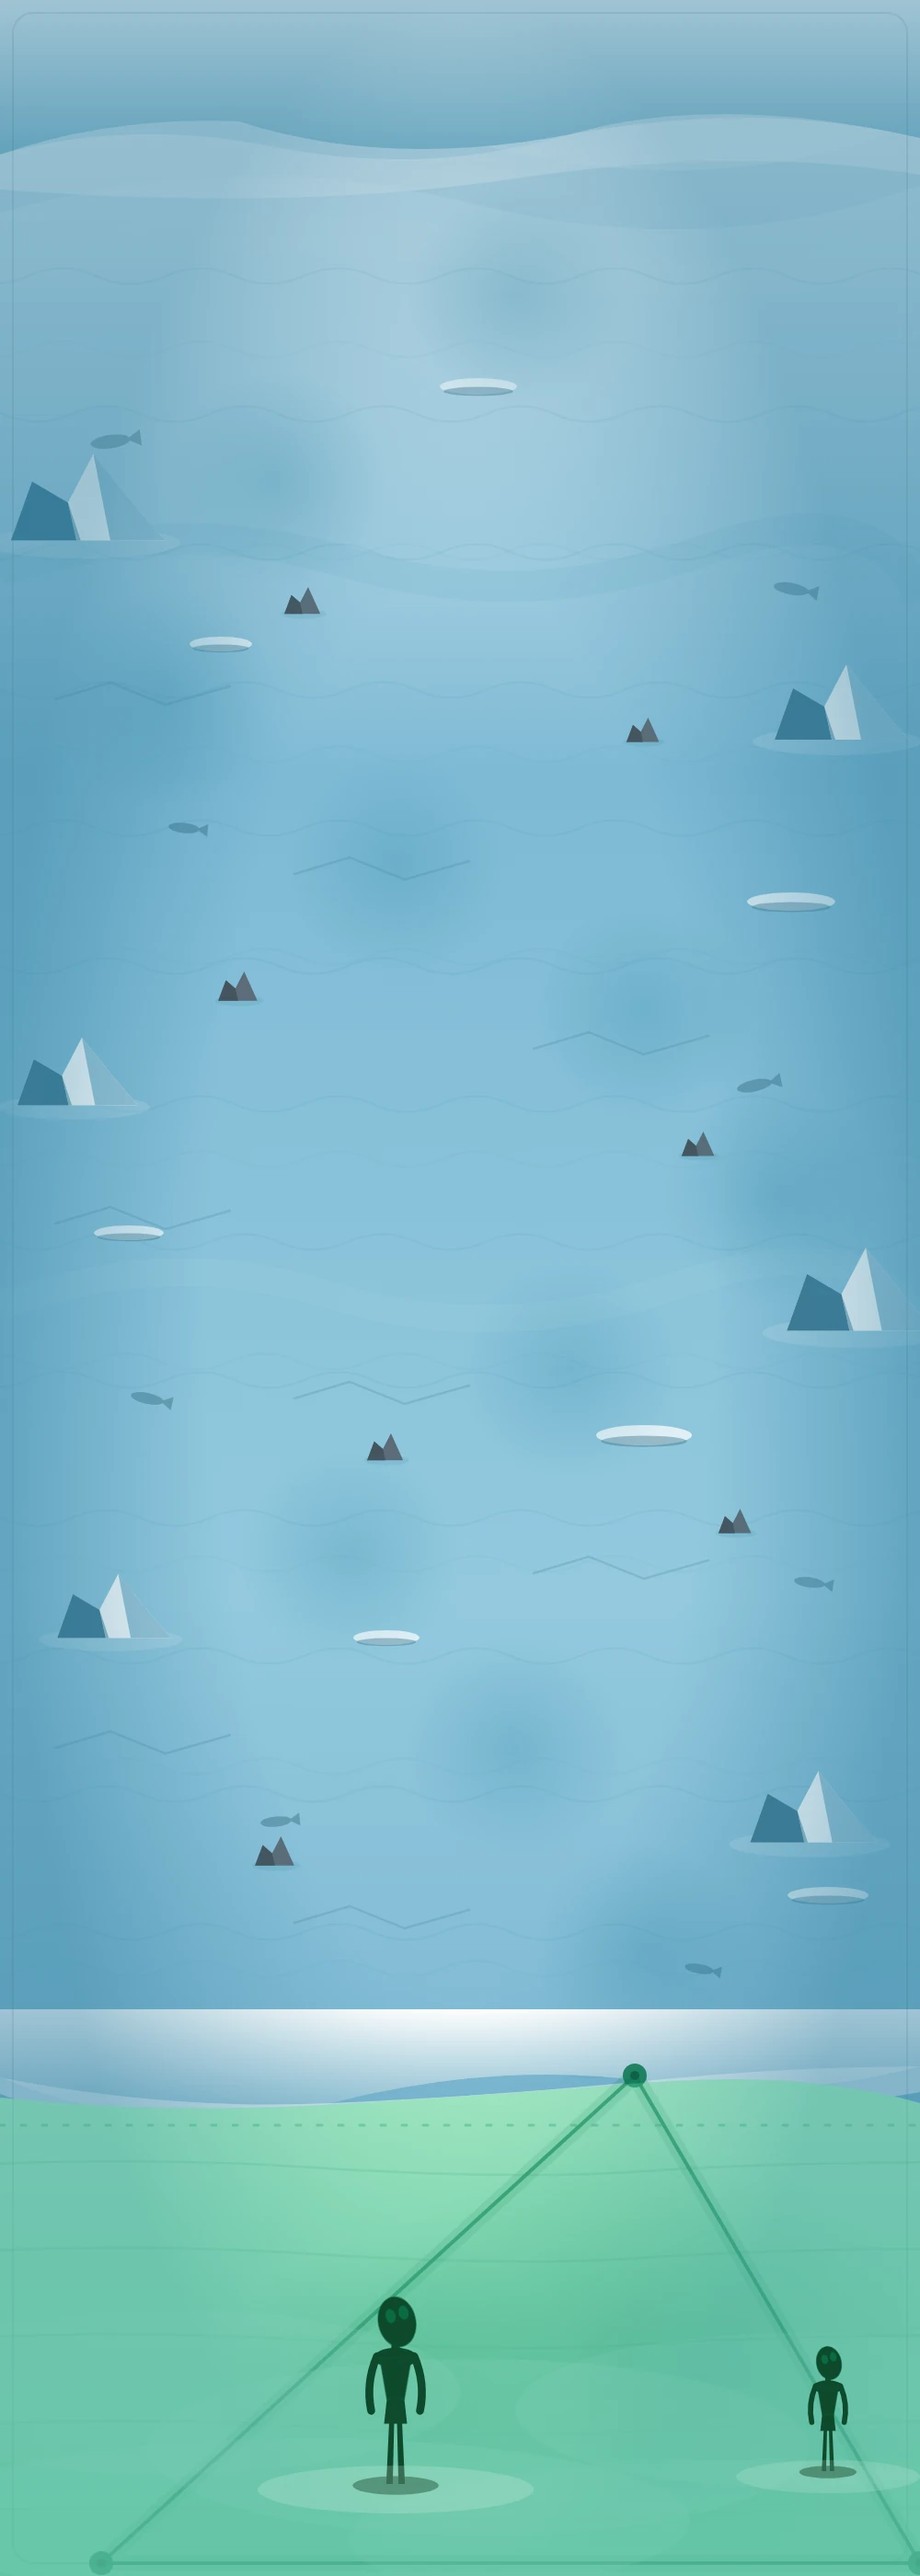
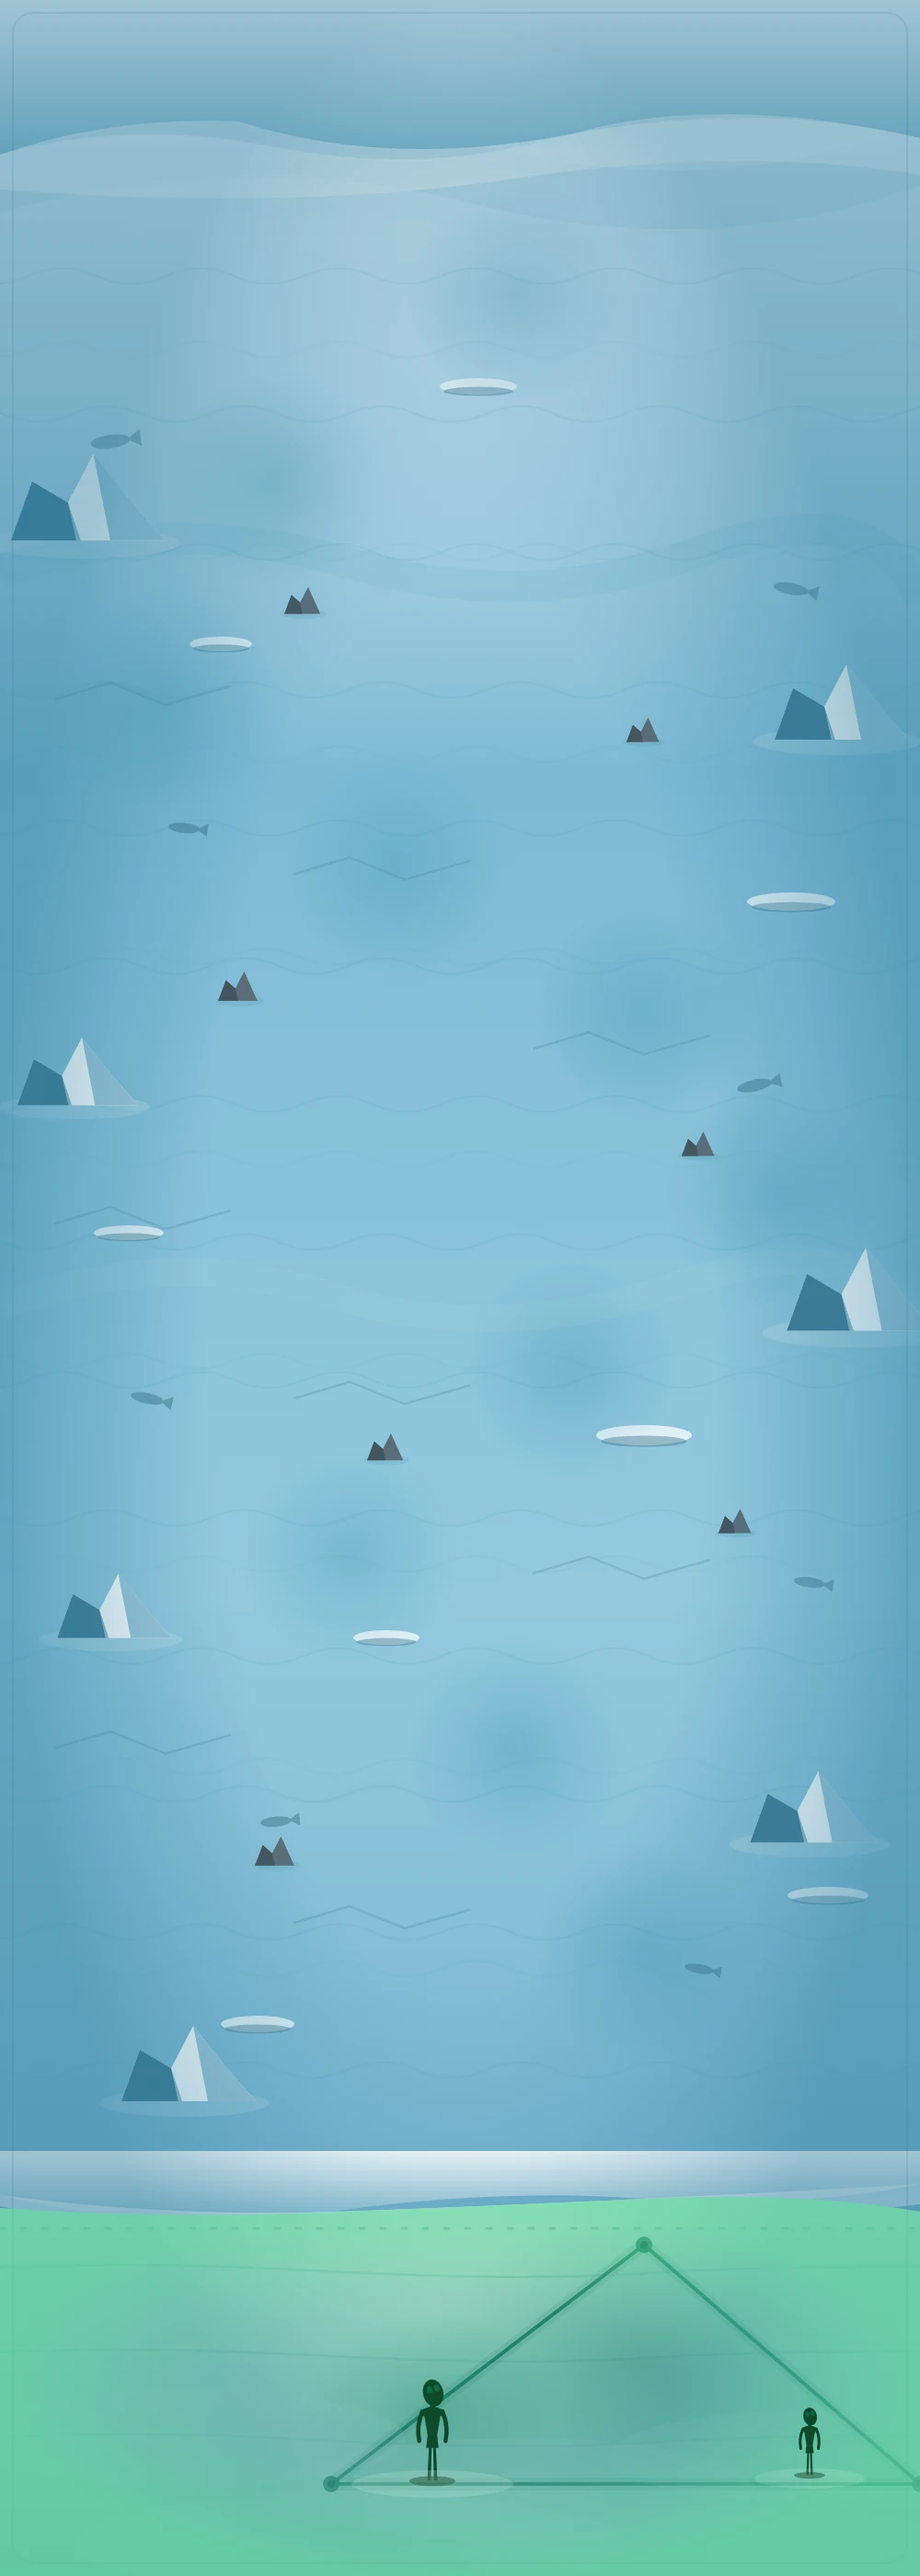
Perkecil zona Bermuda agar sebanding dengan pita es di ujung peta Pasifik
Zona Bermuda versi pertama terlalu besar: air hijau setinggi 520 px ditambah dua
siluet alien setinggi 200 px, sementara pita es Antartika di ujung peta Pasifik
hanya pita rendah tanpa objek besar. Akibatnya ujung peta Antartika terbaca
sebagai blok hijau raksasa, bukan sebagai perairan berikutnya.

Perubahan di `2_Aset_dan_Konten/tools/generate_peta_svg.js`:

- `bmAtas` 2280 -> 2400 sehingga air Bermuda setinggi 400 px, sebanding dengan
  pita es di ujung peta Pasifik (415 px). Tepi es terakhir ikut menipis
  (62 px, sebelumnya 96 px).
- Segitiga diperkecil: `bmA=[700,2440]`, `bmKiri=[360,2700]`,
  `bmKanan=[1000,2700]`. Titik puncaknya duduk tepat di garis pantai, jadi node
  gerbangBermuda (700, 2390) tetap berada di dalam zona.
- Siluet alien 0.78/0.52 -> 0.42/0.28 (tinggi ~110 px dan ~72 px), sebanding
  dengan aksen lain di peta.
- Pendar hijau, halo segitiga, dan kabut ikut mengecil; kabut diturunkan ke
  0.09-0.12 supaya garis dasar segitiga di y=2700 tidak pudar.
- `koreksiBermuda` diubah dari gradien linear (yang meredupkan seluruh zona,
  termasuk segitiga) menjadi gradien radial yang hanya kuat di tepi.
- Garis segitiga dinaikkan ke opacity .85 / tebal 4 px karena zona kini lebih kecil.
- Bongkahan es di [200, 2260] dikembalikan: tepi es yang turun ke y=2400 tidak
  lagi menutupinya.

Verifikasi di emulator: zona Bermuda di layar setinggi 428 px, pita es di ujung
peta Pasifik 370-430 px. Di bawah kartu node, 96,2 persen piksel hijau dominan
[…]

diff --git a/2_Aset_dan_Konten/tools/generate_peta_svg.js b/2_Aset_dan_Konten/tools/generate_peta_svg.js
@@ -237,11 +237,10 @@ addA(`<defs>
     <stop offset=".55" stop-color="#2FA96A" stop-opacity=".13"/>
     <stop offset="1" stop-color="#2FA96A" stop-opacity="0"/>
   </radialGradient>
-  <linearGradient id="koreksiBermuda" x1="0" y1="0" x2="0" y2="1">
-    <stop offset="0" stop-color="#176B42" stop-opacity=".30"/>
-    <stop offset=".55" stop-color="#176B42" stop-opacity=".36"/>
-    <stop offset="1" stop-color="#176B42" stop-opacity=".45"/>
-  </linearGradient>
+  <radialGradient id="koreksiBermuda">
+    <stop offset=".45" stop-color="#176B42" stop-opacity="0"/>
+    <stop offset="1" stop-color="#176B42" stop-opacity=".55"/>
+  </radialGradient>
 </defs>`);
 
 addA(`<rect width="${W}" height="${H}" fill="url(#lautEs)"/>`);
@@ -268,11 +267,11 @@ for (let y = 380; y < H; y += 220) addA(wave(y, 0.045, (Math.round(y / 220) % 2)
   [160, 1520, 12, .75], [880, 1720, 8, .7], [300, 1980, -6, .7], [760, 2140, 10, .65],
 ].forEach((f) => addA(fishShadow(...f)));
 
-// Gunung es besar dan bongkahan es di sisi rute. Bongkahan di y=2260 dihapus karena
-// tertutup tepi lapisan es yang menjadi batas perairan Bermuda.
+// Gunung es besar dan bongkahan es di sisi rute. Bongkahan paling selatan (y=2260) tetap
+// ada karena tepi lapisan es kini mulai di y=2400, jadi tidak tertutup.
 [
   [90, 560, 1.15], [910, 780, 1.0], [80, 1180, .9], [930, 1420, 1.1],
-  [120, 1760, .85], [880, 1980, .95],
+  [120, 1760, .85], [880, 1980, .95], [200, 2260, 1.0],
 ].forEach((p) => addA(iceberg(...p)));
 
 [
@@ -303,46 +302,49 @@ stageTitikAntartika.forEach(([x, y]) => {
 
 // ---------------------------------------------- Perairan Segitiga Bermuda
 // Ujung selatan peta Antartika bukan lagi lapangan es: di sini perairan Bermuda dimulai,
-// ditandai air hijau zamrud, kabut, segitiga bercahaya, dan siluet alien. Node
-// gerbangBermuda (700, 2390) berdiri di dalam segitiga ini.
-const bmAtas = 2280;
-const bmA = [690, 2256];
-const bmKiri = [110, 2786];
-const bmKanan = [1000, 2786];
+// ditandai air hijau zamrud, segitiga bercahaya, dan siluet alien. Skalanya sengaja
+// disamakan dengan pita es Antartika di ujung peta Pasifik (pita rendah ~330 px tanpa
+// objek besar) supaya kedua peta punya bobot visual yang sama saat di-scroll.
+// Node gerbangBermuda (700, 2390) berdiri tepat di garis pantai, di atas segitiga.
+const bmAtas = 2400;
+const bmA = [700, 2440];
+const bmKiri = [360, 2700];
+const bmKanan = [1000, 2700];
 
 // Tepi lapisan es terakhir: batas tegas antara es Antartika dan air Bermuda.
-addA(`<path d="M0 ${bmAtas - 96} H1000 V${bmAtas - 34} Q860 ${bmAtas + 4} 700 ${bmAtas - 18} T360 ${bmAtas + 6} T0 ${bmAtas - 22} Z" fill="url(#esAtas)"/>`);
-addA(`<path d="M0 ${bmAtas - 22} Q180 ${bmAtas + 14} 360 ${bmAtas + 6} T700 ${bmAtas - 18} T1000 ${bmAtas - 34} V${bmAtas - 6} Q860 ${bmAtas + 20} 700 ${bmAtas + 2} T360 ${bmAtas + 24} T0 ${bmAtas - 4} Z" fill="#BFE6F2" opacity=".6"/>`);
+addA(`<path d="M0 ${bmAtas - 62} H1000 V${bmAtas - 26} Q860 ${bmAtas + 2} 700 ${bmAtas - 10} T360 ${bmAtas + 4} T0 ${bmAtas - 14} Z" fill="url(#esAtas)"/>`);
+addA(`<path d="M0 ${bmAtas - 14} Q180 ${bmAtas + 10} 360 ${bmAtas + 4} T700 ${bmAtas - 10} T1000 ${bmAtas - 26} V${bmAtas - 4} Q860 ${bmAtas + 14} 700 ${bmAtas + 2} T360 ${bmAtas + 16} T0 ${bmAtas - 2} Z" fill="#BFE6F2" opacity=".6"/>`);
 
 // Air hijau zamrud menutupi sisa peta ke bawah.
-addA(`<path d="M0 ${bmAtas} Q170 ${bmAtas + 18} 350 ${bmAtas + 8} T700 ${bmAtas - 16} T1000 ${bmAtas + 6} V2800 H0 Z" fill="url(#lautBermuda)"/>`);
+addA(`<path d="M0 ${bmAtas} Q170 ${bmAtas + 12} 350 ${bmAtas + 5} T700 ${bmAtas - 10} T1000 ${bmAtas + 4} V2800 H0 Z" fill="url(#lautBermuda)"/>`);
 
 // Garis batas perairan.
-addA(`<line x1="0" y1="${bmAtas + 30}" x2="1000" y2="${bmAtas + 30}" stroke="#7CE89A" stroke-opacity=".38" stroke-width="3" stroke-dasharray="5 18" stroke-linecap="round"/>`);
+addA(`<line x1="0" y1="${bmAtas + 22}" x2="1000" y2="${bmAtas + 22}" stroke="#7CE89A" stroke-opacity=".34" stroke-width="3" stroke-dasharray="5 18" stroke-linecap="round"/>`);
 
 // Ombak hijau.
-for (let i = 0; i < 5; i++) {
-  const y = bmAtas + 76 + i * 94;
-  addA(`<path d="M-80 ${y} Q120 ${y - 14} 340 ${y} T700 ${y + 4} T1080 ${y - 6}" fill="none" stroke="#7CE89A" stroke-opacity="${(0.17 - i * 0.022).toFixed(3)}" stroke-width="2.4" stroke-linecap="round"/>`);
+for (let i = 0; i < 3; i++) {
+  const y = bmAtas + 68 + i * 92;
+  addA(`<path d="M-80 ${y} Q120 ${y - 12} 340 ${y} T700 ${y + 3} T1080 ${y - 5}" fill="none" stroke="#7CE89A" stroke-opacity="${(0.15 - i * 0.03).toFixed(3)}" stroke-width="2.4" stroke-linecap="round"/>`);
 }
 
 // Pendar hijau di belakang segitiga dan alien.
-addA(`<ellipse cx="690" cy="2560" rx="330" ry="230" fill="url(#pendarBermuda)"/>`);
-addA(`<ellipse cx="430" cy="2600" rx="200" ry="170" fill="url(#pendarBermuda)"/>`);
+addA(`<ellipse cx="700" cy="2570" rx="240" ry="160" fill="url(#pendarBermuda)"/>`);
+addA(`<ellipse cx="470" cy="2620" rx="140" ry="105" fill="url(#pendarBermuda)"/>`);
 
-// Segitiga bercahaya: halo lebar lalu garis tegas.
-addA(`<path d="M${bmA} L${bmKiri} L${bmKanan} Z" fill="#2FA96A" fill-opacity=".07" stroke="#5CFFA8" stroke-opacity=".16" stroke-width="18" stroke-linejoin="round"/>`);
-addA(`<path d="M${bmA} L${bmKiri} L${bmKanan} Z" fill="none" stroke="#5CFFA8" stroke-opacity=".82" stroke-width="4" stroke-linejoin="round"/>`);
+// Segitiga bercahaya: halo tipis lalu garis tegas.
+addA(`<path d="M${bmA} L${bmKiri} L${bmKanan} Z" fill="#2FA96A" fill-opacity=".06" stroke="#5CFFA8" stroke-opacity=".14" stroke-width="14" stroke-linejoin="round"/>`);
+addA(`<path d="M${bmA} L${bmKiri} L${bmKanan} Z" fill="none" stroke="#5CFFA8" stroke-opacity=".85" stroke-width="4" stroke-linejoin="round"/>`);
 [bmA, bmKiri, bmKanan].forEach(([x, y]) => {
-  addA(`<circle cx="${x}" cy="${y}" r="13" fill="#5CFFA8" opacity=".9"/>`);
-  addA(`<circle cx="${x}" cy="${y}" r="5" fill="#E8FFF2"/>`);
+  addA(`<circle cx="${x}" cy="${y}" r="9" fill="#5CFFA8" opacity=".85"/>`);
+  addA(`<circle cx="${x}" cy="${y}" r="4" fill="#E8FFF2"/>`);
 });
 
-// Kabut hijau di tepi bawah peta. Digambar sebelum alien agar siluetnya tetap tegas
+// Kabut hijau tipis di tepi bawah peta. Digambar sebelum alien agar siluetnya tetap tegas
 // (kalau kabut di atas alien, tubuhnya tertutup lapisan hijau muda dan hanya kepala terlihat).
+// Intensitasnya rendah supaya garis dasar segitiga di y=2700 tidak ikut pudar.
 [
-  [180, 2600, 320, 90, 0.16], [520, 2660, 360, 96, 0.18], [860, 2620, 300, 84, 0.15],
-  [330, 2740, 420, 90, 0.2], [780, 2760, 400, 86, 0.18],
+  [200, 2650, 240, 54, 0.10], [560, 2706, 260, 56, 0.11], [880, 2670, 220, 50, 0.09],
+  [380, 2764, 300, 54, 0.12], [780, 2776, 280, 50, 0.11],
 ].forEach(([x, y, rx, ry, o]) => {
   addA(`<ellipse cx="${x}" cy="${y}" rx="${rx}" ry="${ry}" fill="#A8F0B8" opacity="${o}"/>`);
 });
@@ -353,15 +355,17 @@ addA(`<rect width="${W}" height="${H}" fill="url(#vignetteEs)"/>`);
 addA(`<rect x="14" y="14" width="${W - 28}" height="${H - 28}" rx="22" fill="none" stroke="#8FB2B8" stroke-opacity=".14" stroke-width="2"/>`);
 
 // Vinyet peta berwarna biru (#2F7EA0 di tema terang) sehingga air Bermuda di tepi terbaca
-// teal. Lapisan hijau tipis di atas vinyet mengembalikan hue hijau tanpa mengubah kerangka peta.
-addA(`<path d="M0 ${bmAtas} Q170 ${bmAtas + 18} 350 ${bmAtas + 8} T700 ${bmAtas - 16} T1000 ${bmAtas + 6} V2800 H0 Z" fill="url(#koreksiBermuda)"/>`);
+// teal. Koreksi hijau ini sengaja hanya kuat di tepi (gradien radial) supaya segitiga dan
+// siluet alien di tengah tidak ikut meredup.
+addA(`<path d="M0 ${bmAtas} Q170 ${bmAtas + 12} 350 ${bmAtas + 5} T700 ${bmAtas - 10} T1000 ${bmAtas + 4} V2800 H0 Z" fill="url(#koreksiBermuda)"/>`);
 
-// Siluet alien berdiri di permukaan air, di dalam segitiga.
-addA(alien(430, 2700, 0.78));
-addA(alien(900, 2686, 0.52));
+// Siluet alien berdiri di permukaan air, di dalam segitiga. Skala kecil agar bobotnya
+// sebanding dengan aksen lain di peta (tinggi ~110 px dan ~72 px, bukan 200 px).
+addA(alien(470, 2696, 0.42));
+addA(alien(880, 2690, 0.28));
 // Kabut tipis di kaki alien saja, supaya terlihat berdiri di air.
-addA(`<ellipse cx="430" cy="2706" rx="150" ry="26" fill="#A8F0B8" opacity=".2"/>`);
-addA(`<ellipse cx="900" cy="2692" rx="100" ry="18" fill="#A8F0B8" opacity=".16"/>`);
+addA(`<ellipse cx="470" cy="2700" rx="88" ry="15" fill="#A8F0B8" opacity=".18"/>`);
+addA(`<ellipse cx="880" cy="2694" rx="60" ry="11" fill="#A8F0B8" opacity=".14"/>`);
 addA('</svg>');
 
 function tulis(nama, svg) {
